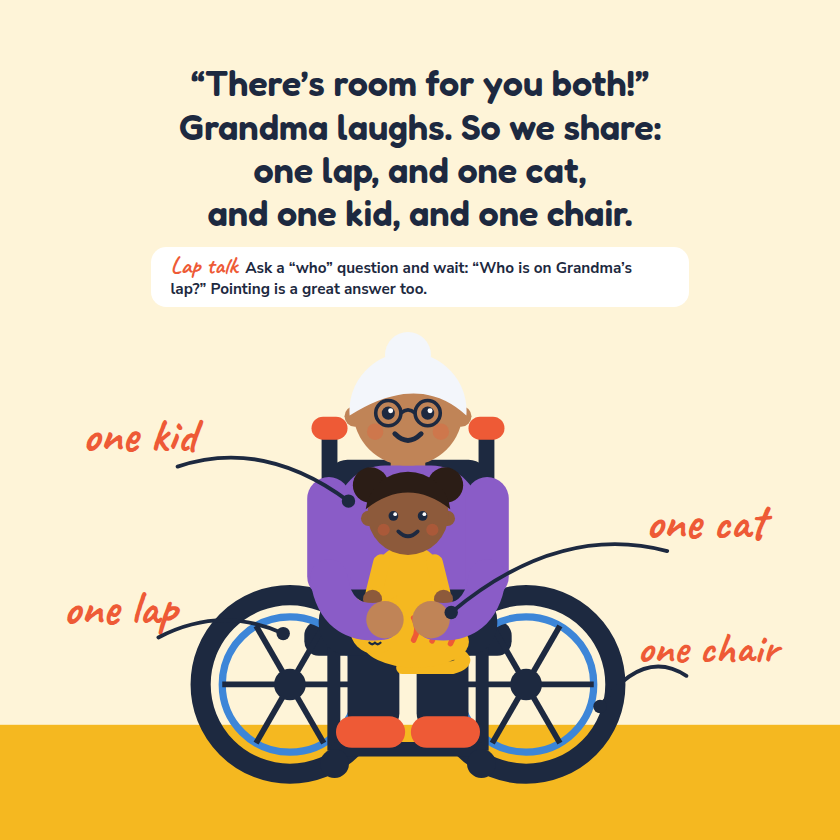
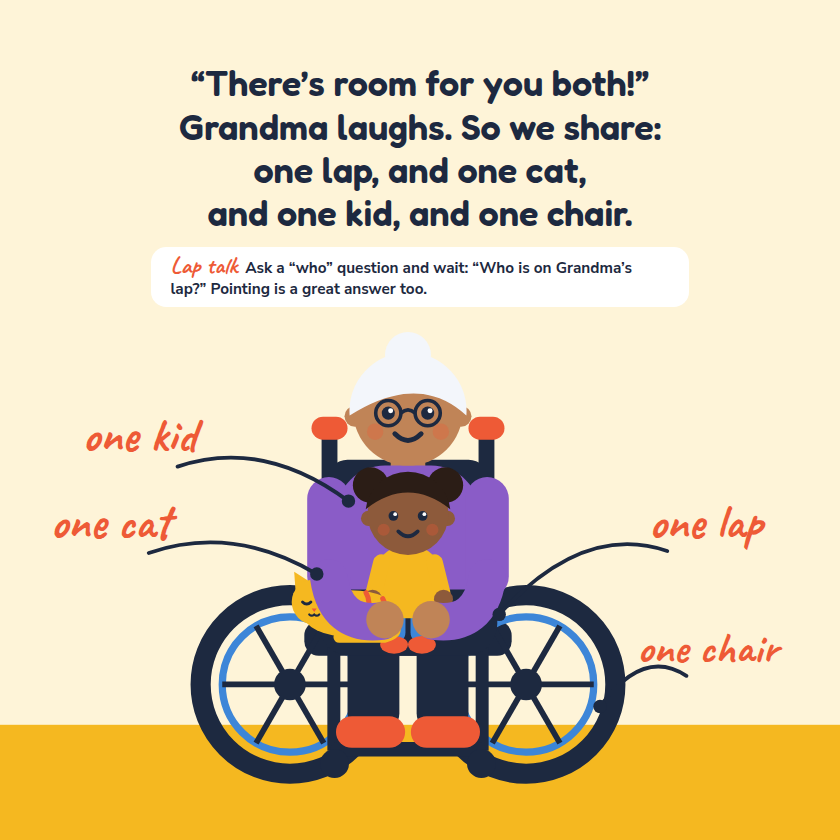
Save latest in-progress workflow output
Claude-Session: https://claude.ai/code/session_013mm46m7T8HwJboSANTcNw4

diff --git a/products/picture-laps-not-apps/source.html b/products/picture-laps-not-apps/source.html
@@ -176,8 +176,8 @@ body { font-family: "Nunito Sans", sans-serif; color: #1D2940 }
 <div class="page story"><svg class="art" viewBox="875 0 875 875" preserveAspectRatio="xMidYMid slice" xmlns="http://www.w3.org/2000/svg"><rect x="0" y="0" width="1750" height="875" fill="#E3EEFA"/><ellipse cx="1300" cy="640" rx="620" ry="110" fill="#DFF3E9"/><rect x="0" y="620" width="1750" height="255" fill="#2FA36B"/><use href="#tree" width="200" height="320" transform="translate(20 330) scale(1.05)"/><use href="#cloud" width="160" height="70" transform="translate(640 330) scale(0.8)" style="color:#FFFFFF"/><use href="#cloud" width="160" height="70" transform="translate(1560 350) scale(0.7)" style="color:#FFFFFF"/><rect x="160" y="700" width="620" height="118" rx="16" fill="#F5B820"/><rect x="196" y="700" width="30" height="118" fill="#FEF4D8"/><rect x="280" y="700" width="30" height="118" fill="#FEF4D8"/><rect x="364" y="700" width="30" height="118" fill="#FEF4D8"/><rect x="448" y="700" width="30" height="118" fill="#FEF4D8"/><rect x="532" y="700" width="30" height="118" fill="#FEF4D8"/><rect x="616" y="700" width="30" height="118" fill="#FEF4D8"/><rect x="700" y="700" width="30" height="118" fill="#FEF4D8"/><g transform="translate(284 378.3) scale(1.55)"><use href="#jo" width="240" height="300" transform="translate(0 0) scale(1)"/><g transform="translate(69 100.6) scale(0.85)"><use href="#ada-sit" width="120" height="200" transform="translate(0 0) scale(1)"/></g><use href="#book" width="160" height="100" transform="translate(76 168) scale(0.55)"/><use href="#jo-book" width="240" height="300" transform="translate(0 0) scale(1)"/></g><rect x="980" y="700" width="620" height="118" rx="16" fill="#EE5A36"/><rect x="1016" y="700" width="30" height="118" fill="#FDE9E3"/><rect x="1100" y="700" width="30" height="118" fill="#FDE9E3"/><rect x="1184" y="700" width="30" height="118" fill="#FDE9E3"/><rect x="1268" y="700" width="30" height="118" fill="#FDE9E3"/><rect x="1352" y="700" width="30" height="118" fill="#FDE9E3"/><rect x="1436" y="700" width="30" height="118" fill="#FDE9E3"/><rect x="1520" y="700" width="30" height="118" fill="#FDE9E3"/><g transform="translate(1104 378.3) scale(1.55)"><use href="#bea" width="240" height="300" transform="translate(0 0) scale(1)"/><g transform="translate(80.4 116.16) scale(0.66)"><use href="#baby-up" width="120" height="200" transform="translate(0 0) scale(1)"/></g><use href="#bea-lift" width="240" height="300" transform="translate(0 0) scale(1)"/></g><g fill="none" stroke="#1D2940" stroke-width="6" stroke-linecap="round"><path d="M1170 560 q-16 20 0 40 M1146 548 q-22 32 0 64 M1410 560 q16 20 0 40 M1434 548 q22 32 0 64"/></g><text x="1520" y="470" font-family="'Caveat', 'Nunito Sans', sans-serif" font-weight="700" font-size="66" fill="#EE5A36" text-anchor="middle">Whee!</text></svg><div class="verse"><span class="l">And Mama Bea’s lap</span><span class="l">is a pony—trot, trot!</span><span class="l">The baby goes “Whee!”</span><span class="l">and she giggles a lot.</span><div class="tip"><b>Lap talk</b> Offer a choice: “Slow pony or fast pony?” Then do exactly what they pick.</div></div></div>
 <div class="page story"><svg class="art" viewBox="0 0 875 875" preserveAspectRatio="xMidYMid slice" xmlns="http://www.w3.org/2000/svg"><rect x="0" y="0" width="1750" height="875" fill="#E3EEFA"/><rect x="0" y="630" width="1750" height="245" fill="#DFF3E9"/><circle cx="60" cy="640" r="80" fill="#2FA36B"/><circle cx="150" cy="656" r="56" fill="#2FA36B"/><circle cx="1650" cy="400" r="58" fill="#F5B820"/><g transform="translate(256 365) scale(1.45)"><use href="#bench" width="240" height="300" transform="translate(0 0) scale(1)"/><use href="#dad" width="240" height="300" transform="translate(0 0) scale(1)"/><g transform="translate(67.2 96.88) scale(0.88)"><use href="#kid-sit-point" width="120" height="200" transform="translate(0 0) scale(1)"/></g><use href="#dad-hug" width="240" height="300" transform="translate(0 0) scale(1)"/></g><ellipse cx="1230" cy="752" rx="340" ry="74" fill="#3D86D8"/><g stroke="#FFFFFF" stroke-width="6" stroke-linecap="round"><path d="M930 712 L978 712 M944 732 L984 732"/></g><use href="#duck-w" width="100" height="80" transform="translate(990 680) scale(1)"/><use href="#duck-w" width="100" height="80" transform="translate(1110 684) scale(1)"/><use href="#duck-w" width="100" height="80" transform="translate(1230 680) scale(1)"/><use href="#duck-w" width="100" height="80" transform="translate(1360 660) scale(1.3)"/><use href="#duck-w" width="100" height="80" transform="translate(1398 664) scale(0.5)"/><rect x="1450" y="662" width="250" height="40" rx="10" fill="#F5B820"/><g transform="translate(1488.6 503.12) scale(0.72)"><use href="#jo" width="240" height="300" transform="translate(0 0) scale(1)"/><g transform="translate(69 100.6) scale(0.85)"><use href="#ada-sit" width="120" height="200" transform="translate(0 0) scale(1)"/></g><use href="#book" width="160" height="100" transform="translate(76 168) scale(0.55)"/><use href="#jo-book" width="240" height="300" transform="translate(0 0) scale(1)"/></g></svg><div class="verse"><span class="l">We find a green bench</span><span class="l">where the ducks paddle past.</span><span class="l">We count them—one, two, three.</span><span class="l">The last one is fast!</span></div></div>
 <div class="page story"><svg class="art" viewBox="875 0 875 875" preserveAspectRatio="xMidYMid slice" xmlns="http://www.w3.org/2000/svg"><rect x="0" y="0" width="1750" height="875" fill="#E3EEFA"/><rect x="0" y="630" width="1750" height="245" fill="#DFF3E9"/><circle cx="60" cy="640" r="80" fill="#2FA36B"/><circle cx="150" cy="656" r="56" fill="#2FA36B"/><circle cx="1650" cy="400" r="58" fill="#F5B820"/><g transform="translate(256 365) scale(1.45)"><use href="#bench" width="240" height="300" transform="translate(0 0) scale(1)"/><use href="#dad" width="240" height="300" transform="translate(0 0) scale(1)"/><g transform="translate(67.2 96.88) scale(0.88)"><use href="#kid-sit-point" width="120" height="200" transform="translate(0 0) scale(1)"/></g><use href="#dad-hug" width="240" height="300" transform="translate(0 0) scale(1)"/></g><ellipse cx="1230" cy="752" rx="340" ry="74" fill="#3D86D8"/><g stroke="#FFFFFF" stroke-width="6" stroke-linecap="round"><path d="M930 712 L978 712 M944 732 L984 732"/></g><use href="#duck-w" width="100" height="80" transform="translate(990 680) scale(1)"/><use href="#duck-w" width="100" height="80" transform="translate(1110 684) scale(1)"/><use href="#duck-w" width="100" height="80" transform="translate(1230 680) scale(1)"/><use href="#duck-w" width="100" height="80" transform="translate(1360 660) scale(1.3)"/><use href="#duck-w" width="100" height="80" transform="translate(1398 664) scale(0.5)"/><rect x="1450" y="662" width="250" height="40" rx="10" fill="#F5B820"/><g transform="translate(1488.6 503.12) scale(0.72)"><use href="#jo" width="240" height="300" transform="translate(0 0) scale(1)"/><g transform="translate(69 100.6) scale(0.85)"><use href="#ada-sit" width="120" height="200" transform="translate(0 0) scale(1)"/></g><use href="#book" width="160" height="100" transform="translate(76 168) scale(0.55)"/><use href="#jo-book" width="240" height="300" transform="translate(0 0) scale(1)"/></g></svg><div class="verse"><span class="l">Big laps and small laps</span><span class="l">all out in the sun—</span><span class="l">a park full of laps,</span><span class="l">and a lap for each one!</span><div class="tip"><b>Lap talk</b> Count out loud together—ducks, dogs, buses, buttons. Point to each one as you count.</div></div></div>
-<div class="page story"><svg class="art" viewBox="0 0 875 875" preserveAspectRatio="xMidYMid slice" xmlns="http://www.w3.org/2000/svg"><rect x="0" y="0" width="875" height="875" fill="#EFE6FA"/><rect x="0" y="755" width="875" height="120" fill="#8A5CC7"/><rect x="875" y="0" width="875" height="875" fill="#FEF4D8"/><rect x="875" y="755" width="875" height="120" fill="#F5B820"/><g transform="translate(138 382.7) scale(1.35)"><use href="#wheelchair" width="240" height="300" transform="translate(0 0) scale(1)"/><use href="#gma" width="240" height="300" transform="translate(0 0) scale(1)"/><use href="#cat" width="140" height="90" transform="translate(66 148) scale(0.78)"/><use href="#gma-hug" width="240" height="300" transform="translate(0 0) scale(1)"/></g><use href="#kid-stand-point" width="120" height="200" transform="translate(579 464.2) scale(1.85)"/><text x="790" y="470" font-family="'Bricolage Grotesque', 'Nunito Sans', sans-serif" font-weight="800" font-size="90" fill="#EE5A36" text-anchor="middle">!</text><g transform="translate(1120 335) scale(1.5)"><use href="#wheelchair" width="240" height="300" transform="translate(0 0) scale(1)"/><use href="#gma" width="240" height="300" transform="translate(0 0) scale(1)"/><g transform="translate(67.2 96.88) scale(0.88)"><use href="#kid-sit" width="120" height="200" transform="translate(0 0) scale(1)"/></g><use href="#cat" width="140" height="90" transform="translate(74 184) scale(0.64)"/><use href="#gma-hug" width="240" height="300" transform="translate(0 0) scale(1)"/></g><text x="1020" y="470" font-family="'Caveat', 'Nunito Sans', sans-serif" font-weight="700" font-size="50" fill="#EE5A36" text-anchor="middle">one kid</text><path d="M1060 486 Q1149 456 1238 522" stroke="#1D2940" stroke-width="4" fill="none" stroke-linecap="round"/><circle cx="1238" cy="522" r="7" fill="#1D2940"/><text x="1610" y="560" font-family="'Caveat', 'Nunito Sans', sans-serif" font-weight="700" font-size="50" fill="#EE5A36" text-anchor="middle">one cat</text><path d="M1570 574 Q1457.5 544 1345 638" stroke="#1D2940" stroke-width="4" fill="none" stroke-linecap="round"/><circle cx="1345" cy="638" r="7" fill="#1D2940"/><text x="1000" y="650" font-family="'Caveat', 'Nunito Sans', sans-serif" font-weight="700" font-size="50" fill="#EE5A36" text-anchor="middle">one lap</text><path d="M1040 664 Q1105 630 1170 660" stroke="#1D2940" stroke-width="4" fill="none" stroke-linecap="round"/><circle cx="1170" cy="660" r="7" fill="#1D2940"/><text x="1612" y="690" font-family="'Caveat', 'Nunito Sans', sans-serif" font-weight="700" font-size="46" fill="#EE5A36" text-anchor="middle">one chair</text><path d="M1590 704 Q1545 674 1500 736" stroke="#1D2940" stroke-width="4" fill="none" stroke-linecap="round"/><circle cx="1500" cy="736" r="7" fill="#1D2940"/></svg><div class="verse"><span class="l">Back home, something’s sitting</span><span class="l">right smack in my place:</span><span class="l">our cat, on Grandma’s lap,</span><span class="l">with a smug little face!</span></div></div>
-<div class="page story"><svg class="art" viewBox="875 0 875 875" preserveAspectRatio="xMidYMid slice" xmlns="http://www.w3.org/2000/svg"><rect x="0" y="0" width="875" height="875" fill="#EFE6FA"/><rect x="0" y="755" width="875" height="120" fill="#8A5CC7"/><rect x="875" y="0" width="875" height="875" fill="#FEF4D8"/><rect x="875" y="755" width="875" height="120" fill="#F5B820"/><g transform="translate(138 382.7) scale(1.35)"><use href="#wheelchair" width="240" height="300" transform="translate(0 0) scale(1)"/><use href="#gma" width="240" height="300" transform="translate(0 0) scale(1)"/><use href="#cat" width="140" height="90" transform="translate(66 148) scale(0.78)"/><use href="#gma-hug" width="240" height="300" transform="translate(0 0) scale(1)"/></g><use href="#kid-stand-point" width="120" height="200" transform="translate(579 464.2) scale(1.85)"/><text x="790" y="470" font-family="'Bricolage Grotesque', 'Nunito Sans', sans-serif" font-weight="800" font-size="90" fill="#EE5A36" text-anchor="middle">!</text><g transform="translate(1120 335) scale(1.5)"><use href="#wheelchair" width="240" height="300" transform="translate(0 0) scale(1)"/><use href="#gma" width="240" height="300" transform="translate(0 0) scale(1)"/><g transform="translate(67.2 96.88) scale(0.88)"><use href="#kid-sit" width="120" height="200" transform="translate(0 0) scale(1)"/></g><use href="#cat" width="140" height="90" transform="translate(74 184) scale(0.64)"/><use href="#gma-hug" width="240" height="300" transform="translate(0 0) scale(1)"/></g><text x="1020" y="470" font-family="'Caveat', 'Nunito Sans', sans-serif" font-weight="700" font-size="50" fill="#EE5A36" text-anchor="middle">one kid</text><path d="M1060 486 Q1149 456 1238 522" stroke="#1D2940" stroke-width="4" fill="none" stroke-linecap="round"/><circle cx="1238" cy="522" r="7" fill="#1D2940"/><text x="1610" y="560" font-family="'Caveat', 'Nunito Sans', sans-serif" font-weight="700" font-size="50" fill="#EE5A36" text-anchor="middle">one cat</text><path d="M1570 574 Q1457.5 544 1345 638" stroke="#1D2940" stroke-width="4" fill="none" stroke-linecap="round"/><circle cx="1345" cy="638" r="7" fill="#1D2940"/><text x="1000" y="650" font-family="'Caveat', 'Nunito Sans', sans-serif" font-weight="700" font-size="50" fill="#EE5A36" text-anchor="middle">one lap</text><path d="M1040 664 Q1105 630 1170 660" stroke="#1D2940" stroke-width="4" fill="none" stroke-linecap="round"/><circle cx="1170" cy="660" r="7" fill="#1D2940"/><text x="1612" y="690" font-family="'Caveat', 'Nunito Sans', sans-serif" font-weight="700" font-size="46" fill="#EE5A36" text-anchor="middle">one chair</text><path d="M1590 704 Q1545 674 1500 736" stroke="#1D2940" stroke-width="4" fill="none" stroke-linecap="round"/><circle cx="1500" cy="736" r="7" fill="#1D2940"/></svg><div class="verse"><span class="l">“There’s room for you both!”</span><span class="l">Grandma laughs. So we share:</span><span class="l">one lap, and one cat,</span><span class="l">and one kid, and one chair.</span><div class="tip"><b>Lap talk</b> Ask a “who” question and wait: “Who is on Grandma’s lap?” Pointing is a great answer too.</div></div></div>
+<div class="page story"><svg class="art" viewBox="0 0 875 875" preserveAspectRatio="xMidYMid slice" xmlns="http://www.w3.org/2000/svg"><rect x="0" y="0" width="875" height="875" fill="#EFE6FA"/><rect x="0" y="755" width="875" height="120" fill="#8A5CC7"/><rect x="875" y="0" width="875" height="875" fill="#FEF4D8"/><rect x="875" y="755" width="875" height="120" fill="#F5B820"/><g transform="translate(138 382.7) scale(1.35)"><use href="#wheelchair" width="240" height="300" transform="translate(0 0) scale(1)"/><use href="#gma" width="240" height="300" transform="translate(0 0) scale(1)"/><use href="#cat" width="140" height="90" transform="translate(66 148) scale(0.78)"/><use href="#gma-hug" width="240" height="300" transform="translate(0 0) scale(1)"/></g><use href="#kid-stand-point" width="120" height="200" transform="translate(579 464.2) scale(1.85)"/><text x="790" y="470" font-family="'Bricolage Grotesque', 'Nunito Sans', sans-serif" font-weight="800" font-size="90" fill="#EE5A36" text-anchor="middle">!</text><g transform="translate(1120 335) scale(1.5)"><use href="#wheelchair" width="240" height="300" transform="translate(0 0) scale(1)"/><use href="#gma" width="240" height="300" transform="translate(0 0) scale(1)"/><g transform="translate(67.2 96.88) scale(0.88)"><use href="#kid-sit" width="120" height="200" transform="translate(0 0) scale(1)"/></g><use href="#cat" width="140" height="90" transform="translate(34 168) scale(0.58)"/><use href="#gma-hug" width="240" height="300" transform="translate(0 0) scale(1)"/></g><text x="1020" y="470" font-family="'Caveat', 'Nunito Sans', sans-serif" font-weight="700" font-size="50" fill="#EE5A36" text-anchor="middle">one kid</text><path d="M1060 486 Q1149 456 1238 522" stroke="#1D2940" stroke-width="4" fill="none" stroke-linecap="round"/><circle cx="1238" cy="522" r="7" fill="#1D2940"/><text x="990" y="560" font-family="'Caveat', 'Nunito Sans', sans-serif" font-weight="700" font-size="50" fill="#EE5A36" text-anchor="middle">one cat</text><path d="M1030 576 Q1117.5 546 1205 598" stroke="#1D2940" stroke-width="4" fill="none" stroke-linecap="round"/><circle cx="1205" cy="598" r="7" fill="#1D2940"/><text x="1610" y="560" font-family="'Caveat', 'Nunito Sans', sans-serif" font-weight="700" font-size="50" fill="#EE5A36" text-anchor="middle">one lap</text><path d="M1570 574 Q1482.5 544 1395 640" stroke="#1D2940" stroke-width="4" fill="none" stroke-linecap="round"/><circle cx="1395" cy="640" r="7" fill="#1D2940"/><text x="1612" y="690" font-family="'Caveat', 'Nunito Sans', sans-serif" font-weight="700" font-size="46" fill="#EE5A36" text-anchor="middle">one chair</text><path d="M1590 704 Q1545 674 1500 736" stroke="#1D2940" stroke-width="4" fill="none" stroke-linecap="round"/><circle cx="1500" cy="736" r="7" fill="#1D2940"/></svg><div class="verse"><span class="l">Back home, something’s sitting</span><span class="l">right smack in my place:</span><span class="l">our cat, on Grandma’s lap,</span><span class="l">with a smug little face!</span></div></div>
+<div class="page story"><svg class="art" viewBox="875 0 875 875" preserveAspectRatio="xMidYMid slice" xmlns="http://www.w3.org/2000/svg"><rect x="0" y="0" width="875" height="875" fill="#EFE6FA"/><rect x="0" y="755" width="875" height="120" fill="#8A5CC7"/><rect x="875" y="0" width="875" height="875" fill="#FEF4D8"/><rect x="875" y="755" width="875" height="120" fill="#F5B820"/><g transform="translate(138 382.7) scale(1.35)"><use href="#wheelchair" width="240" height="300" transform="translate(0 0) scale(1)"/><use href="#gma" width="240" height="300" transform="translate(0 0) scale(1)"/><use href="#cat" width="140" height="90" transform="translate(66 148) scale(0.78)"/><use href="#gma-hug" width="240" height="300" transform="translate(0 0) scale(1)"/></g><use href="#kid-stand-point" width="120" height="200" transform="translate(579 464.2) scale(1.85)"/><text x="790" y="470" font-family="'Bricolage Grotesque', 'Nunito Sans', sans-serif" font-weight="800" font-size="90" fill="#EE5A36" text-anchor="middle">!</text><g transform="translate(1120 335) scale(1.5)"><use href="#wheelchair" width="240" height="300" transform="translate(0 0) scale(1)"/><use href="#gma" width="240" height="300" transform="translate(0 0) scale(1)"/><g transform="translate(67.2 96.88) scale(0.88)"><use href="#kid-sit" width="120" height="200" transform="translate(0 0) scale(1)"/></g><use href="#cat" width="140" height="90" transform="translate(34 168) scale(0.58)"/><use href="#gma-hug" width="240" height="300" transform="translate(0 0) scale(1)"/></g><text x="1020" y="470" font-family="'Caveat', 'Nunito Sans', sans-serif" font-weight="700" font-size="50" fill="#EE5A36" text-anchor="middle">one kid</text><path d="M1060 486 Q1149 456 1238 522" stroke="#1D2940" stroke-width="4" fill="none" stroke-linecap="round"/><circle cx="1238" cy="522" r="7" fill="#1D2940"/><text x="990" y="560" font-family="'Caveat', 'Nunito Sans', sans-serif" font-weight="700" font-size="50" fill="#EE5A36" text-anchor="middle">one cat</text><path d="M1030 576 Q1117.5 546 1205 598" stroke="#1D2940" stroke-width="4" fill="none" stroke-linecap="round"/><circle cx="1205" cy="598" r="7" fill="#1D2940"/><text x="1610" y="560" font-family="'Caveat', 'Nunito Sans', sans-serif" font-weight="700" font-size="50" fill="#EE5A36" text-anchor="middle">one lap</text><path d="M1570 574 Q1482.5 544 1395 640" stroke="#1D2940" stroke-width="4" fill="none" stroke-linecap="round"/><circle cx="1395" cy="640" r="7" fill="#1D2940"/><text x="1612" y="690" font-family="'Caveat', 'Nunito Sans', sans-serif" font-weight="700" font-size="46" fill="#EE5A36" text-anchor="middle">one chair</text><path d="M1590 704 Q1545 674 1500 736" stroke="#1D2940" stroke-width="4" fill="none" stroke-linecap="round"/><circle cx="1500" cy="736" r="7" fill="#1D2940"/></svg><div class="verse"><span class="l">“There’s room for you both!”</span><span class="l">Grandma laughs. So we share:</span><span class="l">one lap, and one cat,</span><span class="l">and one kid, and one chair.</span><div class="tip"><b>Lap talk</b> Ask a “who” question and wait: “Who is on Grandma’s lap?” Pointing is a great answer too.</div></div></div>
 <div class="page story"><svg class="art" viewBox="0 0 875 875" preserveAspectRatio="xMidYMid slice" xmlns="http://www.w3.org/2000/svg"><rect x="0" y="0" width="1750" height="875" fill="#F3F6FB"/><use href="#drop" width="20" height="30" transform="translate(100 110) scale(1.2)" style="color:#3D86D8"/><use href="#drop" width="20" height="30" transform="translate(150 200) scale(1.2)" style="color:#3D86D8"/><use href="#drop" width="20" height="30" transform="translate(80 270) scale(1.2)" style="color:#3D86D8"/><use href="#drop" width="20" height="30" transform="translate(720 90) scale(1.2)" style="color:#3D86D8"/><use href="#drop" width="20" height="30" transform="translate(790 180) scale(1.2)" style="color:#3D86D8"/><use href="#drop" width="20" height="30" transform="translate(740 260) scale(1.2)" style="color:#3D86D8"/><use href="#drop" width="20" height="30" transform="translate(960 120) scale(1.2)" style="color:#3D86D8"/><use href="#drop" width="20" height="30" transform="translate(1010 230) scale(1.2)" style="color:#3D86D8"/><use href="#drop" width="20" height="30" transform="translate(1640 110) scale(1.2)" style="color:#3D86D8"/><use href="#drop" width="20" height="30" transform="translate(1690 210) scale(1.2)" style="color:#3D86D8"/><use href="#drop" width="20" height="30" transform="translate(1620 280) scale(1.2)" style="color:#3D86D8"/><path d="M60 360 L1560 360 L1560 760 L60 760Z" fill="#FEF4D8"/><rect x="0" y="760" width="1750" height="115" fill="#EFE6FA"/><rect x="110" y="520" width="660" height="190" rx="44" fill="#8A5CC7"/><rect x="84" y="610" width="90" height="170" rx="36" fill="#8A5CC7"/><rect x="706" y="610" width="90" height="170" rx="36" fill="#8A5CC7"/><rect x="160" y="650" width="560" height="80" rx="18" fill="#EFE6FA"/><g transform="translate(284 415.2) scale(1.3)"><use href="#dad" width="240" height="300" transform="translate(0 0) scale(1)"/><g transform="translate(67.2 96.88) scale(0.88)"><use href="#kid-sit-hold" width="120" height="200" transform="translate(0 0) scale(1)"/></g><use href="#book" width="160" height="100" transform="translate(70 166) scale(0.62)"/><use href="#dad-book" width="240" height="300" transform="translate(0 0) scale(1)"/></g><path d="M1182.7 591 L1072.7 420 L1242.7 420Z" fill="#FFFFFF"/><g transform="translate(924 459.8) scale(1.3)"><use href="#theo" width="240" height="300" transform="translate(0 0) scale(1)"/><use href="#theo-torch" width="240" height="300" transform="translate(0 0) scale(1)"/></g><rect x="1169.7" y="581" width="26" height="40" rx="7" fill="#3D86D8"/><g transform="translate(1305 412.5) scale(1.25)"><use href="#wheelchair" width="240" height="300" transform="translate(0 0) scale(1)"/><use href="#gma" width="240" height="300" transform="translate(0 0) scale(1)"/><use href="#gma-rest" width="240" height="300" transform="translate(0 0) scale(1)"/></g><path d="M40 330 L1540 330 L1556 420 L60 420Z" fill="#F5B820"/><circle cx="80" cy="402" r="28" fill="#F5B820"/><circle cx="140" cy="402" r="28" fill="#F5B820"/><circle cx="200" cy="402" r="28" fill="#F5B820"/><circle cx="260" cy="402" r="28" fill="#F5B820"/><circle cx="320" cy="402" r="28" fill="#F5B820"/><circle cx="380" cy="402" r="28" fill="#F5B820"/><circle cx="440" cy="402" r="28" fill="#F5B820"/><circle cx="500" cy="402" r="28" fill="#F5B820"/><circle cx="560" cy="402" r="28" fill="#F5B820"/><circle cx="620" cy="402" r="28" fill="#F5B820"/><circle cx="680" cy="402" r="28" fill="#F5B820"/><circle cx="740" cy="402" r="28" fill="#F5B820"/><circle cx="800" cy="402" r="28" fill="#F5B820"/><circle cx="860" cy="402" r="28" fill="#F5B820"/><circle cx="920" cy="402" r="28" fill="#F5B820"/><circle cx="980" cy="402" r="28" fill="#F5B820"/><circle cx="1040" cy="402" r="28" fill="#F5B820"/><circle cx="1100" cy="402" r="28" fill="#F5B820"/><circle cx="1160" cy="402" r="28" fill="#F5B820"/><circle cx="1220" cy="402" r="28" fill="#F5B820"/><circle cx="1280" cy="402" r="28" fill="#F5B820"/><circle cx="1340" cy="402" r="28" fill="#F5B820"/><circle cx="1400" cy="402" r="28" fill="#F5B820"/><circle cx="1460" cy="402" r="28" fill="#F5B820"/><circle cx="1520" cy="402" r="28" fill="#F5B820"/><rect x="90" y="330" width="40" height="88" fill="#EE5A36"/><rect x="208" y="330" width="40" height="88" fill="#EE5A36"/><rect x="326" y="330" width="40" height="88" fill="#EE5A36"/><rect x="444" y="330" width="40" height="88" fill="#EE5A36"/><rect x="562" y="330" width="40" height="88" fill="#EE5A36"/><rect x="680" y="330" width="40" height="88" fill="#EE5A36"/><rect x="798" y="330" width="40" height="88" fill="#EE5A36"/><rect x="916" y="330" width="40" height="88" fill="#EE5A36"/><rect x="1034" y="330" width="40" height="88" fill="#EE5A36"/><rect x="1152" y="330" width="40" height="88" fill="#EE5A36"/><rect x="1270" y="330" width="40" height="88" fill="#EE5A36"/><rect x="1388" y="330" width="40" height="88" fill="#EE5A36"/><rect x="1506" y="330" width="40" height="88" fill="#EE5A36"/><path d="M1530 330 Q1580 360 1522.5 500" stroke="#F5B820" stroke-width="30" fill="none" stroke-linecap="round"/><circle cx="1522.5" cy="500" r="17" fill="#EE5A36"/><path d="M40 330 Q24 520 60 600 L112 600 Q92 500 112 420Z" fill="#F5B820"/></svg><div class="verse"><span class="l">When rain taps the window—</span><span class="l">tip-tap, drip-drop—</span><span class="l">we build a big fort</span><span class="l">with a sheet on the top.</span></div></div>
 <div class="page story"><svg class="art" viewBox="875 0 875 875" preserveAspectRatio="xMidYMid slice" xmlns="http://www.w3.org/2000/svg"><rect x="0" y="0" width="1750" height="875" fill="#F3F6FB"/><use href="#drop" width="20" height="30" transform="translate(100 110) scale(1.2)" style="color:#3D86D8"/><use href="#drop" width="20" height="30" transform="translate(150 200) scale(1.2)" style="color:#3D86D8"/><use href="#drop" width="20" height="30" transform="translate(80 270) scale(1.2)" style="color:#3D86D8"/><use href="#drop" width="20" height="30" transform="translate(720 90) scale(1.2)" style="color:#3D86D8"/><use href="#drop" width="20" height="30" transform="translate(790 180) scale(1.2)" style="color:#3D86D8"/><use href="#drop" width="20" height="30" transform="translate(740 260) scale(1.2)" style="color:#3D86D8"/><use href="#drop" width="20" height="30" transform="translate(960 120) scale(1.2)" style="color:#3D86D8"/><use href="#drop" width="20" height="30" transform="translate(1010 230) scale(1.2)" style="color:#3D86D8"/><use href="#drop" width="20" height="30" transform="translate(1640 110) scale(1.2)" style="color:#3D86D8"/><use href="#drop" width="20" height="30" transform="translate(1690 210) scale(1.2)" style="color:#3D86D8"/><use href="#drop" width="20" height="30" transform="translate(1620 280) scale(1.2)" style="color:#3D86D8"/><path d="M60 360 L1560 360 L1560 760 L60 760Z" fill="#FEF4D8"/><rect x="0" y="760" width="1750" height="115" fill="#EFE6FA"/><rect x="110" y="520" width="660" height="190" rx="44" fill="#8A5CC7"/><rect x="84" y="610" width="90" height="170" rx="36" fill="#8A5CC7"/><rect x="706" y="610" width="90" height="170" rx="36" fill="#8A5CC7"/><rect x="160" y="650" width="560" height="80" rx="18" fill="#EFE6FA"/><g transform="translate(284 415.2) scale(1.3)"><use href="#dad" width="240" height="300" transform="translate(0 0) scale(1)"/><g transform="translate(67.2 96.88) scale(0.88)"><use href="#kid-sit-hold" width="120" height="200" transform="translate(0 0) scale(1)"/></g><use href="#book" width="160" height="100" transform="translate(70 166) scale(0.62)"/><use href="#dad-book" width="240" height="300" transform="translate(0 0) scale(1)"/></g><path d="M1182.7 591 L1072.7 420 L1242.7 420Z" fill="#FFFFFF"/><g transform="translate(924 459.8) scale(1.3)"><use href="#theo" width="240" height="300" transform="translate(0 0) scale(1)"/><use href="#theo-torch" width="240" height="300" transform="translate(0 0) scale(1)"/></g><rect x="1169.7" y="581" width="26" height="40" rx="7" fill="#3D86D8"/><g transform="translate(1305 412.5) scale(1.25)"><use href="#wheelchair" width="240" height="300" transform="translate(0 0) scale(1)"/><use href="#gma" width="240" height="300" transform="translate(0 0) scale(1)"/><use href="#gma-rest" width="240" height="300" transform="translate(0 0) scale(1)"/></g><path d="M40 330 L1540 330 L1556 420 L60 420Z" fill="#F5B820"/><circle cx="80" cy="402" r="28" fill="#F5B820"/><circle cx="140" cy="402" r="28" fill="#F5B820"/><circle cx="200" cy="402" r="28" fill="#F5B820"/><circle cx="260" cy="402" r="28" fill="#F5B820"/><circle cx="320" cy="402" r="28" fill="#F5B820"/><circle cx="380" cy="402" r="28" fill="#F5B820"/><circle cx="440" cy="402" r="28" fill="#F5B820"/><circle cx="500" cy="402" r="28" fill="#F5B820"/><circle cx="560" cy="402" r="28" fill="#F5B820"/><circle cx="620" cy="402" r="28" fill="#F5B820"/><circle cx="680" cy="402" r="28" fill="#F5B820"/><circle cx="740" cy="402" r="28" fill="#F5B820"/><circle cx="800" cy="402" r="28" fill="#F5B820"/><circle cx="860" cy="402" r="28" fill="#F5B820"/><circle cx="920" cy="402" r="28" fill="#F5B820"/><circle cx="980" cy="402" r="28" fill="#F5B820"/><circle cx="1040" cy="402" r="28" fill="#F5B820"/><circle cx="1100" cy="402" r="28" fill="#F5B820"/><circle cx="1160" cy="402" r="28" fill="#F5B820"/><circle cx="1220" cy="402" r="28" fill="#F5B820"/><circle cx="1280" cy="402" r="28" fill="#F5B820"/><circle cx="1340" cy="402" r="28" fill="#F5B820"/><circle cx="1400" cy="402" r="28" fill="#F5B820"/><circle cx="1460" cy="402" r="28" fill="#F5B820"/><circle cx="1520" cy="402" r="28" fill="#F5B820"/><rect x="90" y="330" width="40" height="88" fill="#EE5A36"/><rect x="208" y="330" width="40" height="88" fill="#EE5A36"/><rect x="326" y="330" width="40" height="88" fill="#EE5A36"/><rect x="444" y="330" width="40" height="88" fill="#EE5A36"/><rect x="562" y="330" width="40" height="88" fill="#EE5A36"/><rect x="680" y="330" width="40" height="88" fill="#EE5A36"/><rect x="798" y="330" width="40" height="88" fill="#EE5A36"/><rect x="916" y="330" width="40" height="88" fill="#EE5A36"/><rect x="1034" y="330" width="40" height="88" fill="#EE5A36"/><rect x="1152" y="330" width="40" height="88" fill="#EE5A36"/><rect x="1270" y="330" width="40" height="88" fill="#EE5A36"/><rect x="1388" y="330" width="40" height="88" fill="#EE5A36"/><rect x="1506" y="330" width="40" height="88" fill="#EE5A36"/><path d="M1530 330 Q1580 360 1522.5 500" stroke="#F5B820" stroke-width="30" fill="none" stroke-linecap="round"/><circle cx="1522.5" cy="500" r="17" fill="#EE5A36"/><path d="M40 330 Q24 520 60 600 L112 600 Q92 500 112 420Z" fill="#F5B820"/></svg><div class="verse"><span class="l">We drape it from Grandma’s</span><span class="l">wheelchair to the couch,</span><span class="l">and squeeze in together—</span><span class="l">no room for a grouch!</span><div class="tip"><b>Lap talk</b> Name the feelings: cozy, snug, squished, silly. Ask, “How does it feel in here?”</div></div></div>
 <div class="page story"><svg class="art" viewBox="0 0 875 875" preserveAspectRatio="xMidYMid slice" xmlns="http://www.w3.org/2000/svg"><rect x="0" y="0" width="1750" height="875" fill="#1D2940"/><rect x="0" y="760" width="1750" height="115" fill="#8A5CC7"/><ellipse cx="560" cy="800" rx="260" ry="40" fill="#F5B820"/><ellipse cx="1300" cy="800" rx="330" ry="46" fill="#F5B820"/><rect x="100" y="300" width="70" height="440" rx="20" fill="#EE5A36"/><rect x="530" y="300" width="70" height="440" rx="20" fill="#EE5A36"/><clipPath id="w11"><rect x="176" y="336" width="348" height="348" rx="14"/></clipPath><rect x="160" y="320" width="380" height="380" rx="26" fill="#F3F6FB"/><g clip-path="url(#w11)"><rect x="160" y="320" width="380" height="380" fill="#3D86D8"/><use href="#moon" width="100" height="100" transform="translate(340 360) scale(1.3)" style="color:#F5B820"/><use href="#star" width="40" height="40" transform="translate(220 380) scale(0.5)" style="color:#F5B820"/><use href="#star" width="40" height="40" transform="translate(290 470) scale(0.8)" style="color:#F5B820"/><use href="#star" width="40" height="40" transform="translate(210 600) scale(0.5)" style="color:#F5B820"/><use href="#star" width="40" height="40" transform="translate(450 610) scale(0.8)" style="color:#F5B820"/><use href="#star" width="40" height="40" transform="translate(360 540) scale(0.5)" style="color:#F5B820"/></g><rect x="343" y="336" width="14" height="348" fill="#F3F6FB"/><rect x="176" y="503" width="348" height="14" fill="#F3F6FB"/><use href="#kidpj-yawn" width="120" height="200" transform="translate(582 473.6) scale(1.8)"/><text x="800" y="470" font-family="'Caveat', 'Nunito Sans', sans-serif" font-weight="700" font-size="44" fill="#FEF4D8" text-anchor="middle">yawn…</text><g transform="translate(1122.4 343.24) scale(1.48)"><use href="#rocker" width="240" height="300" transform="translate(0 0) scale(1)"/><use href="#dad-sing" width="240" height="300" transform="translate(0 0) scale(1)"/><g transform="translate(67.2 96.88) scale(0.88)"><use href="#kidpj-sleep" width="120" height="200" transform="translate(0 0) scale(1)"/></g><use href="#dad-hug" width="240" height="300" transform="translate(0 0) scale(1)"/></g><use href="#note" width="40" height="60" transform="translate(1530 420) scale(1)" style="color:#F5B820"/><use href="#note" width="40" height="60" transform="translate(1590 360) scale(0.8)" style="color:#F5B820"/><use href="#star" width="40" height="40" transform="translate(1000 330) scale(0.6)" style="color:#F5B820"/><use href="#star" width="40" height="40" transform="translate(1660 520) scale(0.6)" style="color:#F5B820"/><use href="#star" width="40" height="40" transform="translate(960 560) scale(0.6)" style="color:#F5B820"/><use href="#star" width="40" height="40" transform="translate(1690 300) scale(0.6)" style="color:#F5B820"/></svg><div class="verse light"><span class="l">The moon’s in the window.</span><span class="l">The sky’s navy blue.</span><span class="l">My eyes are all heavy.</span><span class="l">My yawns are big, too.</span></div></div>
@@ -222,7 +222,7 @@ body { font-family: "Nunito Sans", sans-serif; color: #1D2940 }
     </div>
   </div>
 </div>
-<div class="page back"><svg class="art" viewBox="0 0 875 875" preserveAspectRatio="xMidYMid slice" xmlns="http://www.w3.org/2000/svg"><rect x="0" y="0" width="875" height="875" fill="#F5B820"/><circle cx="300" cy="640" r="200" fill="#3D86D8"/><rect x="0" y="770" width="875" height="105" fill="#EE5A36"/><g transform="translate(192 521.8) scale(0.9)"><use href="#armchair" width="240" height="300" transform="translate(0 0) scale(1)"/><use href="#dad" width="240" height="300" transform="translate(0 0) scale(1)"/><g transform="translate(67.2 96.88) scale(0.88)"><use href="#kid-sit-content" width="120" height="200" transform="translate(0 0) scale(1)"/></g><use href="#dad-hug" width="240" height="300" transform="translate(0 0) scale(1)"/></g><rect x="560" y="700" width="150" height="30" rx="6" fill="#8A5CC7"/><rect x="572" y="670" width="128" height="30" rx="6" fill="#FFFFFF"/><rect x="556" y="640" width="140" height="30" rx="6" fill="#3D86D8"/><use href="#mug" width="50" height="50" transform="translate(604 592) scale(0.95)"/><use href="#heart" width="40" height="36" transform="translate(640 470) scale(1.1)" style="color:#EE5A36"/></svg>
+<div class="page back"><svg class="art" viewBox="0 0 875 875" preserveAspectRatio="xMidYMid slice" xmlns="http://www.w3.org/2000/svg"><rect x="0" y="0" width="875" height="875" fill="#F5B820"/><circle cx="300" cy="640" r="200" fill="#3D86D8"/><rect x="0" y="770" width="875" height="105" fill="#EE5A36"/><g transform="translate(192 521.8) scale(0.9)"><use href="#armchair" width="240" height="300" transform="translate(0 0) scale(1)"/><use href="#dad" width="240" height="300" transform="translate(0 0) scale(1)"/><g transform="translate(67.2 96.88) scale(0.88)"><use href="#kid-sit-content" width="120" height="200" transform="translate(0 0) scale(1)"/></g><use href="#dad-hug" width="240" height="300" transform="translate(0 0) scale(1)"/></g><use href="#heart" width="40" height="36" transform="translate(520 450) scale(1.3)" style="color:#EE5A36"/><use href="#star" width="40" height="40" transform="translate(90 470) scale(0.9)" style="color:#FFFFFF"/><use href="#star" width="40" height="40" transform="translate(560 560) scale(0.7)" style="color:#FFFFFF"/></svg>
   <div class="bk">
     <h2>A lap is the best seat in town.</h2>
     <p>A lap for a story. A lap on the bus. A lap for a song, a lap at the park, and a sleepy lap when the moon comes up. <i>Laps Not Apps</i> is a warm, rhyming read-aloud that celebrates the grown-ups, big kids and cozy places that hold our littlest listeners close.</p>

diff --git a/products/picture-laps-not-apps/build.js b/products/picture-laps-not-apps/build.js
@@ -330,12 +330,12 @@ SPREADS.push(() => rect(0, 0, 1750, 875, C.kT) + rect(0, 630, 1750, 245, C.gT) +
 SPREADS.push(() => rect(0, 0, 875, 875, C.pT) + rect(0, 755, 875, 120, C.plum) + rect(875, 0, 875, 875, C.sT) + rect(875, 755, 875, 120, C.sun) +
   lap({ a: 'gma', cx: 300, fy: 812, s: 1.35, seat: 'wheelchair', front: U('cat', 66, 148, 0.78) }) +
   standKid('kid-stand-point', 690, 812, 1.85) + text(790, 470, '!', 90, C.tomato) +
-  lap({ a: 'gma', kid: 'kid-sit', cx: 1300, fy: 812, s: 1.5, seat: 'wheelchair', front: U('cat', 74, 184, 0.64) }) +
+  lap({ a: 'gma', kid: 'kid-sit', cx: 1300, fy: 812, s: 1.5, seat: 'wheelchair', front: U('cat', 34, 168, 0.58) }) +
   (() => {
     const L = (x1, y1, x2, y2) => `<path d="M${x1} ${y1} Q${(x1 + x2) / 2} ${Math.min(y1, y2) - 30} ${x2} ${y2}" stroke="${C.ink}" stroke-width="4" fill="none" stroke-linecap="round"/><circle cx="${x2}" cy="${y2}" r="7" fill="${C.ink}"/>`;
     return text(1020, 470, 'one kid', 50, C.tomato, 'Caveat', 700) + L(1060, 486, 1238, 522) +
-      text(1610, 560, 'one cat', 50, C.tomato, 'Caveat', 700) + L(1570, 574, 1345, 638) +
-      text(1000, 650, 'one lap', 50, C.tomato, 'Caveat', 700) + L(1040, 664, 1170, 660) +
+      text(990, 560, 'one cat', 50, C.tomato, 'Caveat', 700) + L(1030, 576, 1205, 598) +
+      text(1610, 560, 'one lap', 50, C.tomato, 'Caveat', 700) + L(1570, 574, 1395, 640) +
       text(1612, 690, 'one chair', 46, C.tomato, 'Caveat', 700) + L(1590, 704, 1500, 736);
   })());
 
@@ -546,7 +546,7 @@ pages.push(`<div class="page matter">${svgPage(rect(0, 0, 875, 875, C.kT) + col(
 // Back cover
 pages.push(`<div class="page back">${svgPage(rect(0, 0, 875, 875, C.sun) + `<circle cx="300" cy="640" r="200" fill="${C.sky}"/>` + rect(0, 770, 875, 105, C.tomato) +
   lap({ a: 'dad', kid: 'kid-sit-content', cx: 300, fy: 790, s: 0.9, seat: 'armchair' }) +
-  rect(560, 700, 150, 30, C.plum, 6) + rect(572, 670, 128, 30, C.paper, 6) + rect(556, 640, 140, 30, C.sky, 6) + U('mug', 604, 592, 0.95) + col('heart', 640, 470, 1.1, C.tomato))}
+  col('heart', 520, 450, 1.3, C.tomato) + col('star', 90, 470, 0.9, C.paper) + col('star', 560, 560, 0.7, C.paper))}
   <div class="bk">
     <h2>A lap is the best seat in town.</h2>
     <p>A lap for a story. A lap on the bus. A lap for a song, a lap at the park, and a sleepy lap when the moon comes up. <i>Laps Not Apps</i> is a warm, rhyming read-aloud that celebrates the grown-ups, big kids and cozy places that hold our littlest listeners close.</p>
